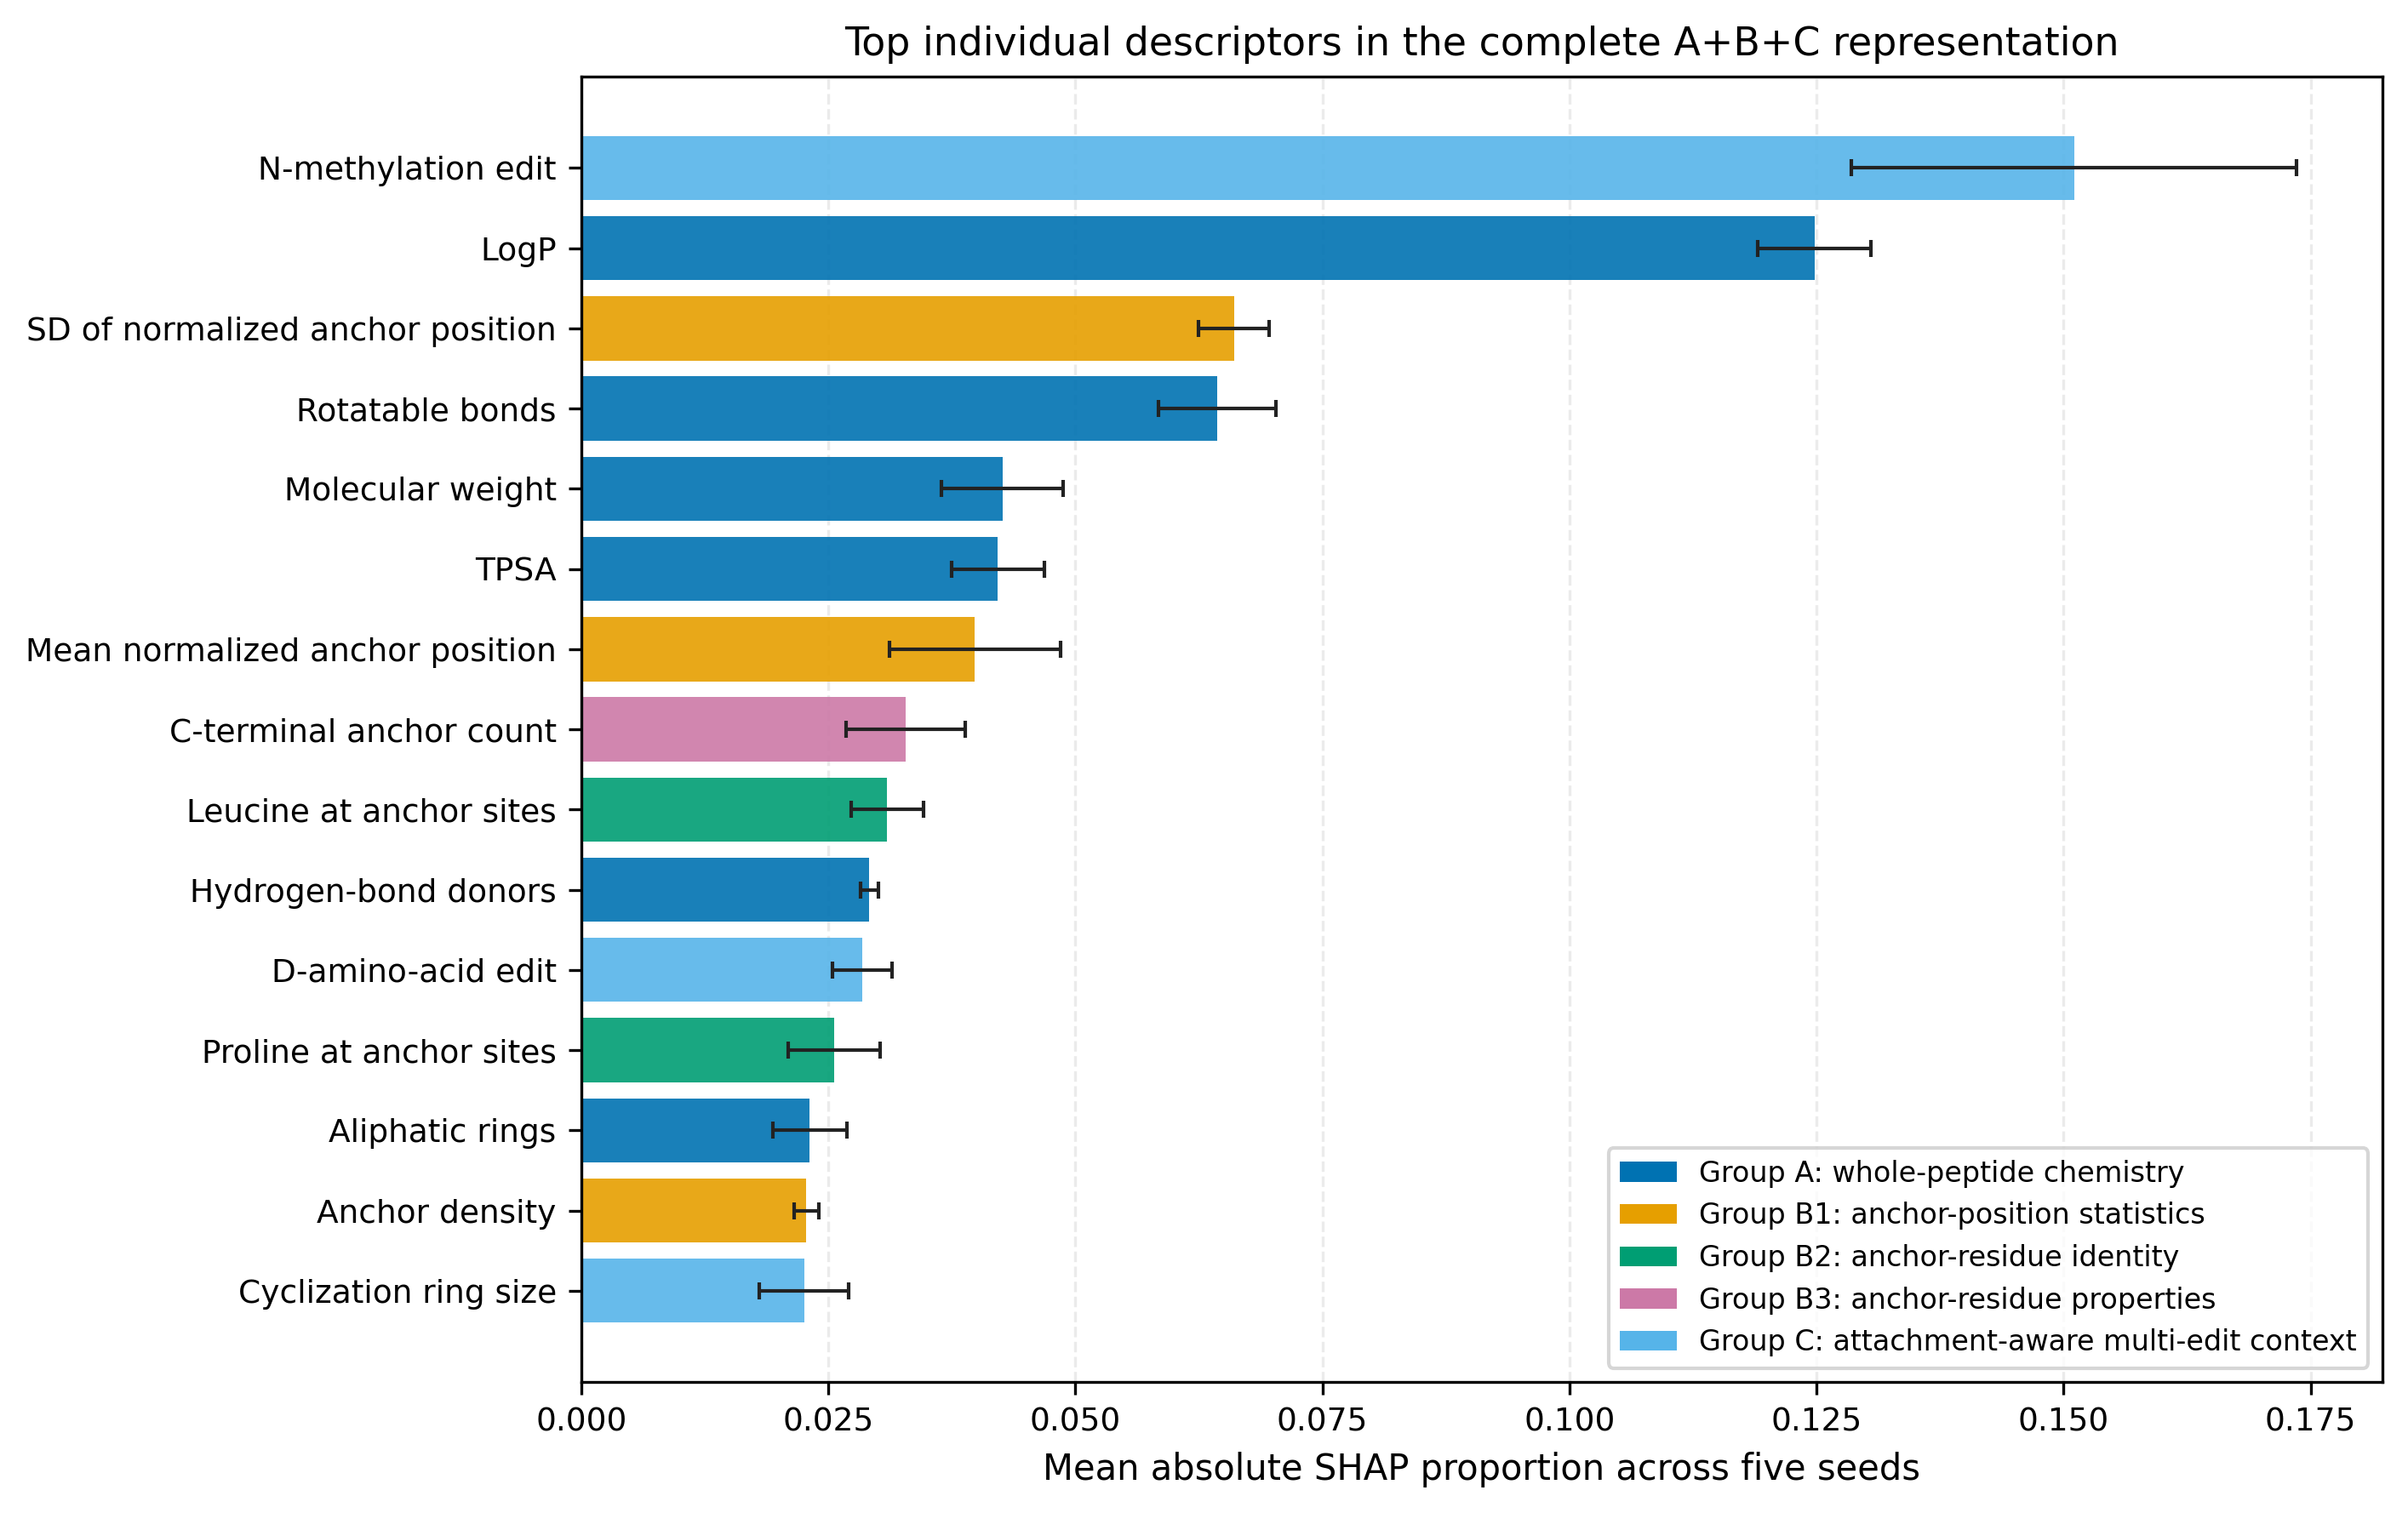
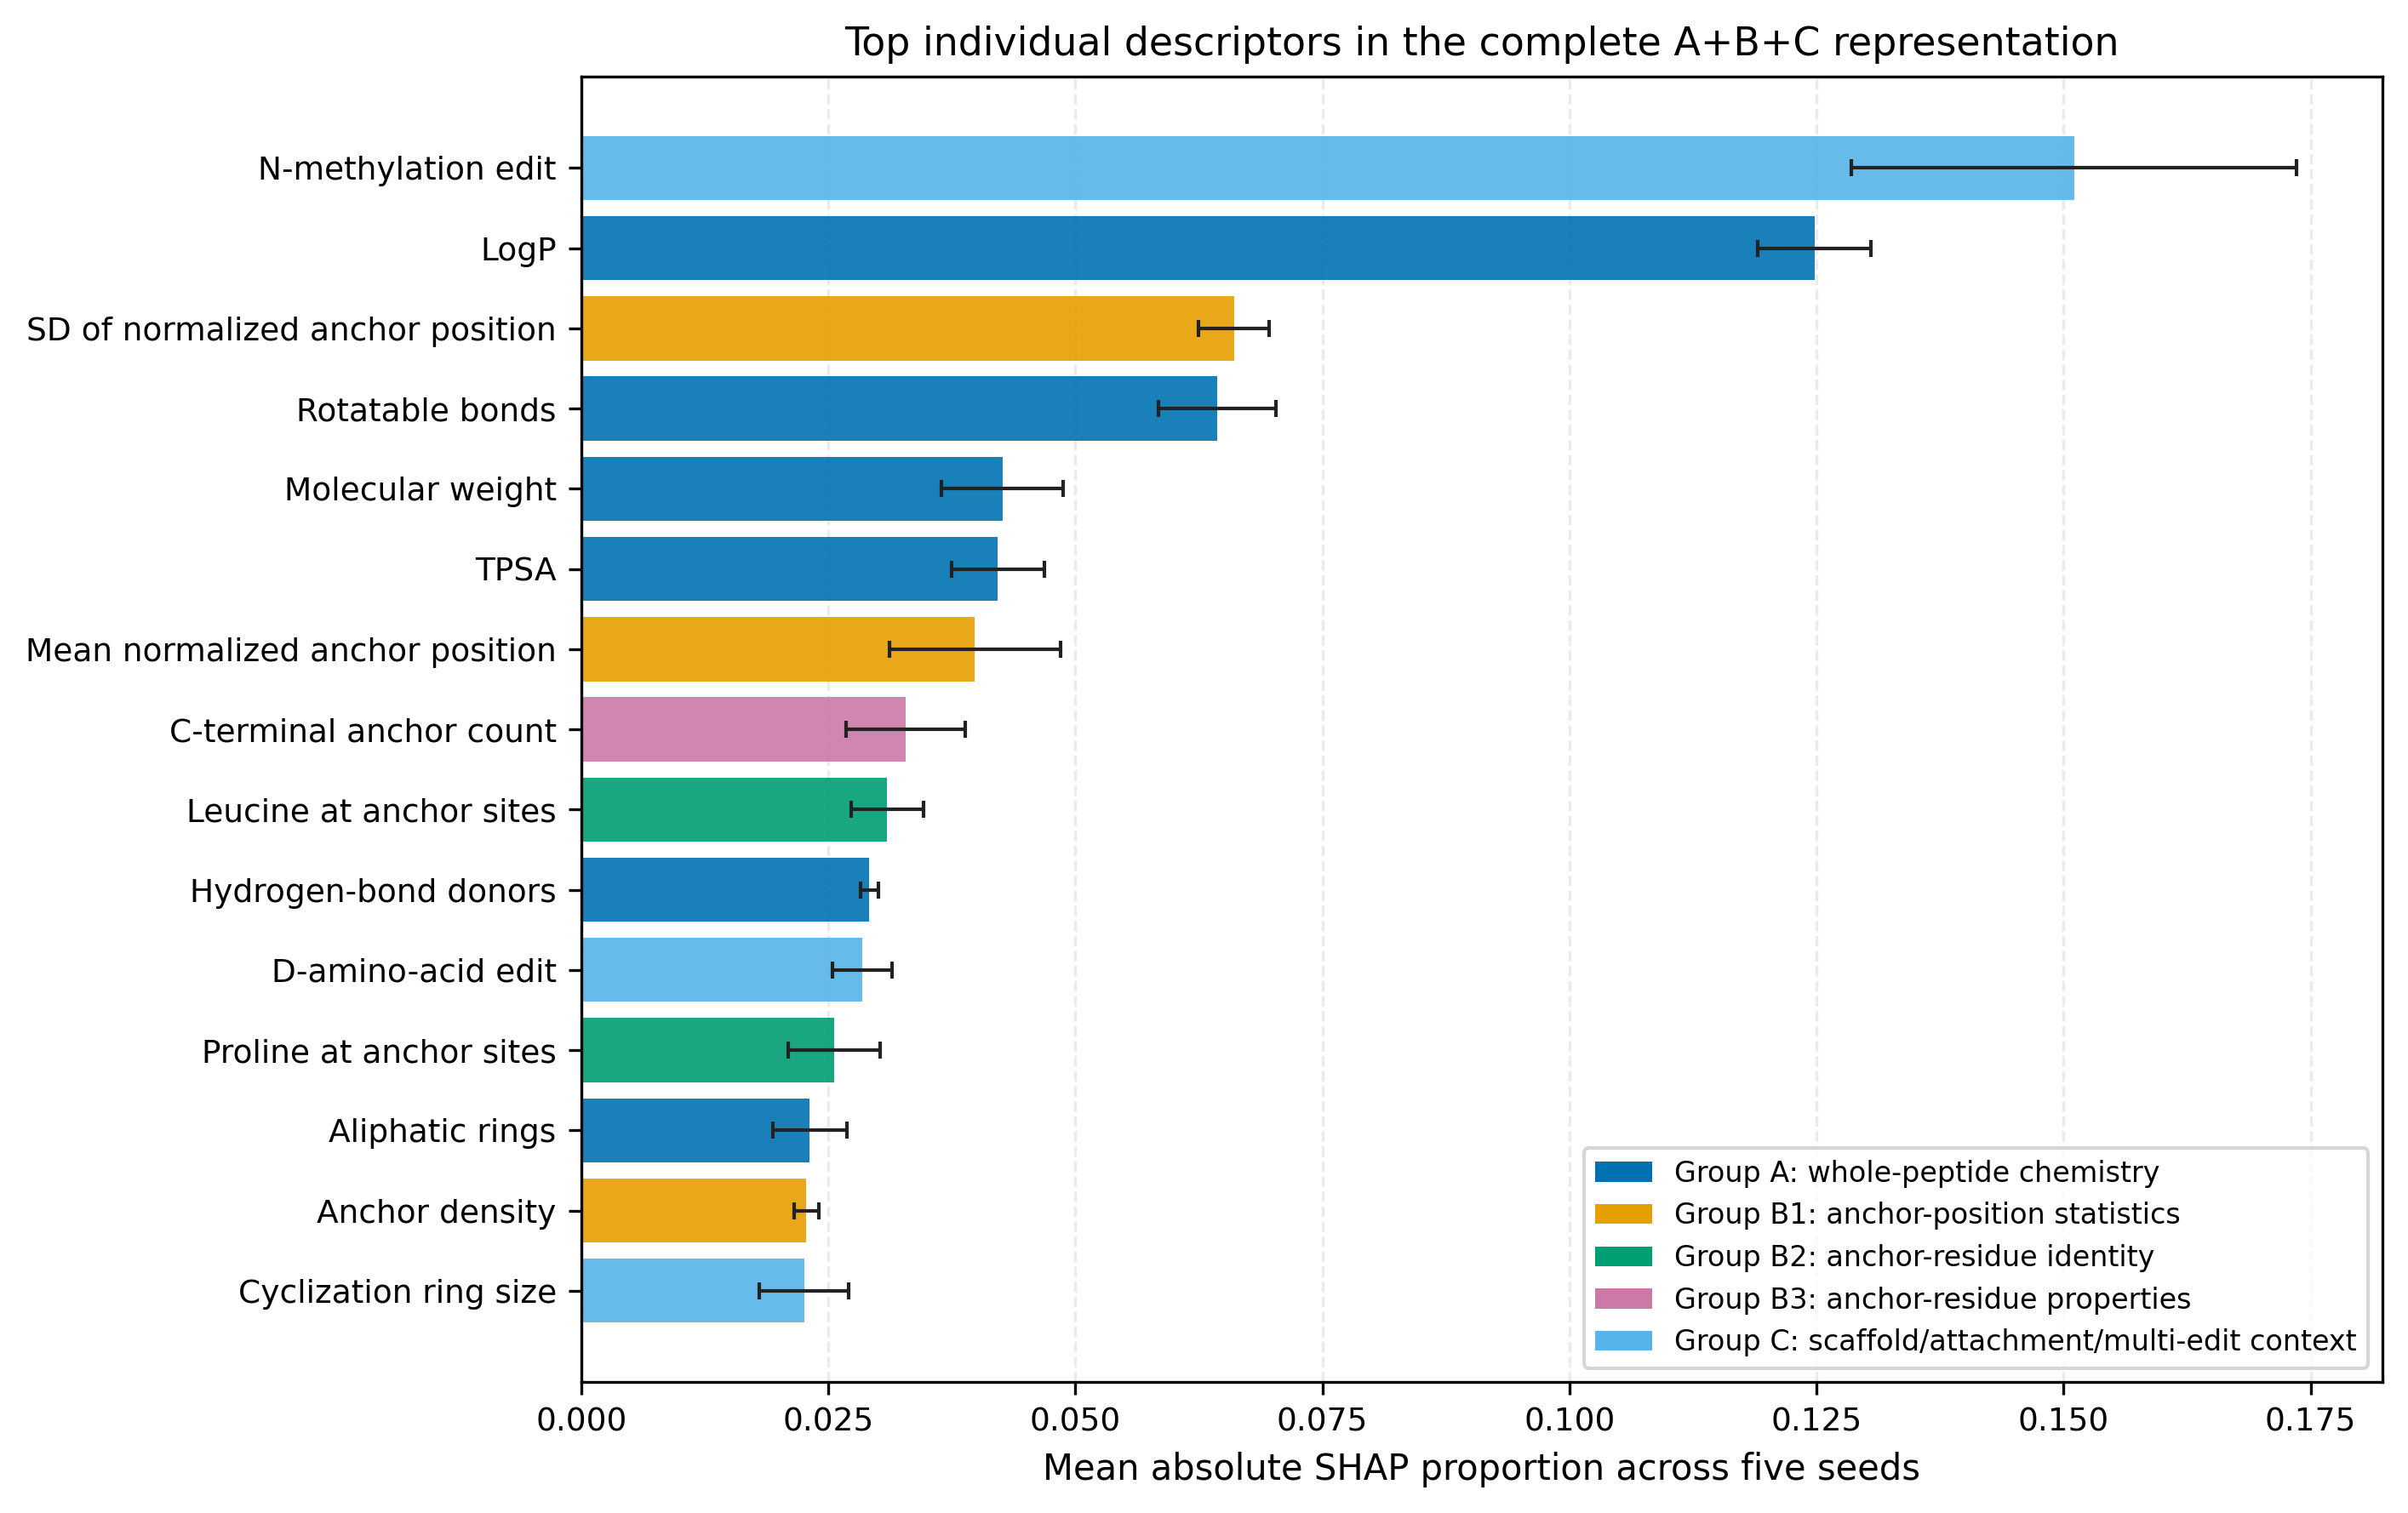
Unify descriptor block naming and SHAP grouping

Changed region(s): [[0.6532, 0.7424, 0.9332, 0.8971]]

diff --git a/scripts/run_shap.py b/scripts/run_shap.py
@@ -22,9 +22,9 @@ MODELS={
 
 def group(name):
     if name in {'mol_weight','logp','tpsa','num_h_acceptors','num_h_donors','num_rotatable_bonds','num_aromatic_rings','num_aliphatic_rings','num_edits','num_edit_families'}: return 'A'
-    if name.startswith('anchor_count') or name.startswith('anchor_density') or name.startswith('anchor_pos'): return 'B1'
+    if name in {'anchor_count_total','anchor_count_unique','anchor_density','anchor_pos_mean','anchor_pos_std','anchor_pos_range'}: return 'B1'
     if name.startswith('anchor_res_'): return 'B2'
-    if name.startswith('anchor_'): return 'B3'
+    if name in {'anchor_hydrophobic_frac','anchor_charged_frac','anchor_polar_frac','anchor_aromatic_frac','anchor_small_frac','anchor_proline_frac','anchor_terminal_frac','anchor_n_terminal_count','anchor_c_terminal_count'}: return 'B3'
     return 'C'
 
 def ci(a):

diff --git a/scripts/generate_figures.py b/scripts/generate_figures.py
@@ -63,7 +63,7 @@ def shap_top15():
  fig,ax=plt.subplots(figsize=(9.5,6));z=t.iloc[::-1];labels=[SHAP_LABEL.get(x,x) for x in z.feature]
  ax.barh(labels,z.proportion,color=[SHAP_COL[x] for x in z.subblock],alpha=.9)
  ax.errorbar(z.proportion,labels,xerr=[z.proportion-z.ci95_low,z.ci95_high-z.proportion],fmt='none',ecolor='#222222',elinewidth=1,capsize=2.5,capthick=1,zorder=3)
- legend_labels={'A':'whole-peptide chemistry','B1':'anchor-position statistics','B2':'anchor-residue identity','B3':'anchor-residue properties','C':'attachment-aware multi-edit context'}
+ legend_labels={'A':'whole-peptide chemistry','B1':'anchor-position statistics','B2':'anchor-residue identity','B3':'anchor-residue properties','C':'scaffold/attachment/multi-edit context'}
  ax.legend(handles=[Patch(facecolor=SHAP_COL[g],label=f'Group {g}: {legend_labels[g]}') for g in ['A','B1','B2','B3','C']],loc='lower right',frameon=True,fontsize=8)
  ax.set_xlabel('Mean absolute SHAP proportion across five seeds')
  ax.set_title('Top individual descriptors in the complete A+B+C representation')

diff --git a/results/final_experiments/feature_inventory/descriptor_block_definitions.md b/results/final_experiments/feature_inventory/descriptor_block_definitions.md
@@ -1,0 +1,35 @@
+# Supplementary descriptor-block definitions
+
+The descriptor blocks used in model ablations, SHAP aggregation, figure
+colors, legends, and captions follow the canonical feature order returned by
+`AnchorAwareDescriptorFeaturizer.get_feature_names()`.
+
+| Block | Definition | Feature count |
+|---|---|---:|
+| A | Whole-peptide chemistry | 10 |
+| B1 | Anchor-position statistics | 6 |
+| B2 | Anchor-residue identity | 20 |
+| B3 | Anchor-residue properties and local terminal environment | 9 |
+| C | Scaffold/attachment/multi-edit context | 28 |
+
+## Why terminal anchor counts are in B3
+
+`anchor_n_terminal_count` and `anchor_c_terminal_count` are intentionally B3
+features. They describe whether anchor sites occur in the local N- or
+C-terminal environment and are constructed alongside anchor-site property
+fractions (hydrophobic, charged, polar, aromatic, small, and proline) and
+`anchor_terminal_frac`.
+
+B1 is restricted to six global anchor-location summaries:
+`anchor_count_total`, `anchor_count_unique`, `anchor_density`,
+`anchor_pos_mean`, `anchor_pos_std`, and `anchor_pos_range`. Therefore,
+`C-terminal anchor count` is colored as B3 in Figure 2; this is not a plotting
+reclassification.
+
+## Group C terminology
+
+All figures and captions use **Group C: scaffold/attachment/multi-edit
+context**. This block includes edit-family distributions, edit diversity,
+specific edit indicators, cyclization descriptors, and multi-edit aggregation
+features. In particular, `edit_n_methylation`, `edit_d_amino_acid`,
+`anchor_pair_count`, and `cyclization_ring_size` are Group C features.

diff --git a/README.md b/README.md
@@ -27,7 +27,8 @@ reproducible repository.
 
 *Top individual descriptors in the complete A+B+C representation. Bars show
 mean absolute SHAP proportions across five independently fitted seeds; error
-bars indicate two-sided 95% t-confidence intervals.*
+bars indicate two-sided 95% t-confidence intervals. The legend definition is
+**Group C: scaffold/attachment/multi-edit context**.*
 
 ## Repository map
 